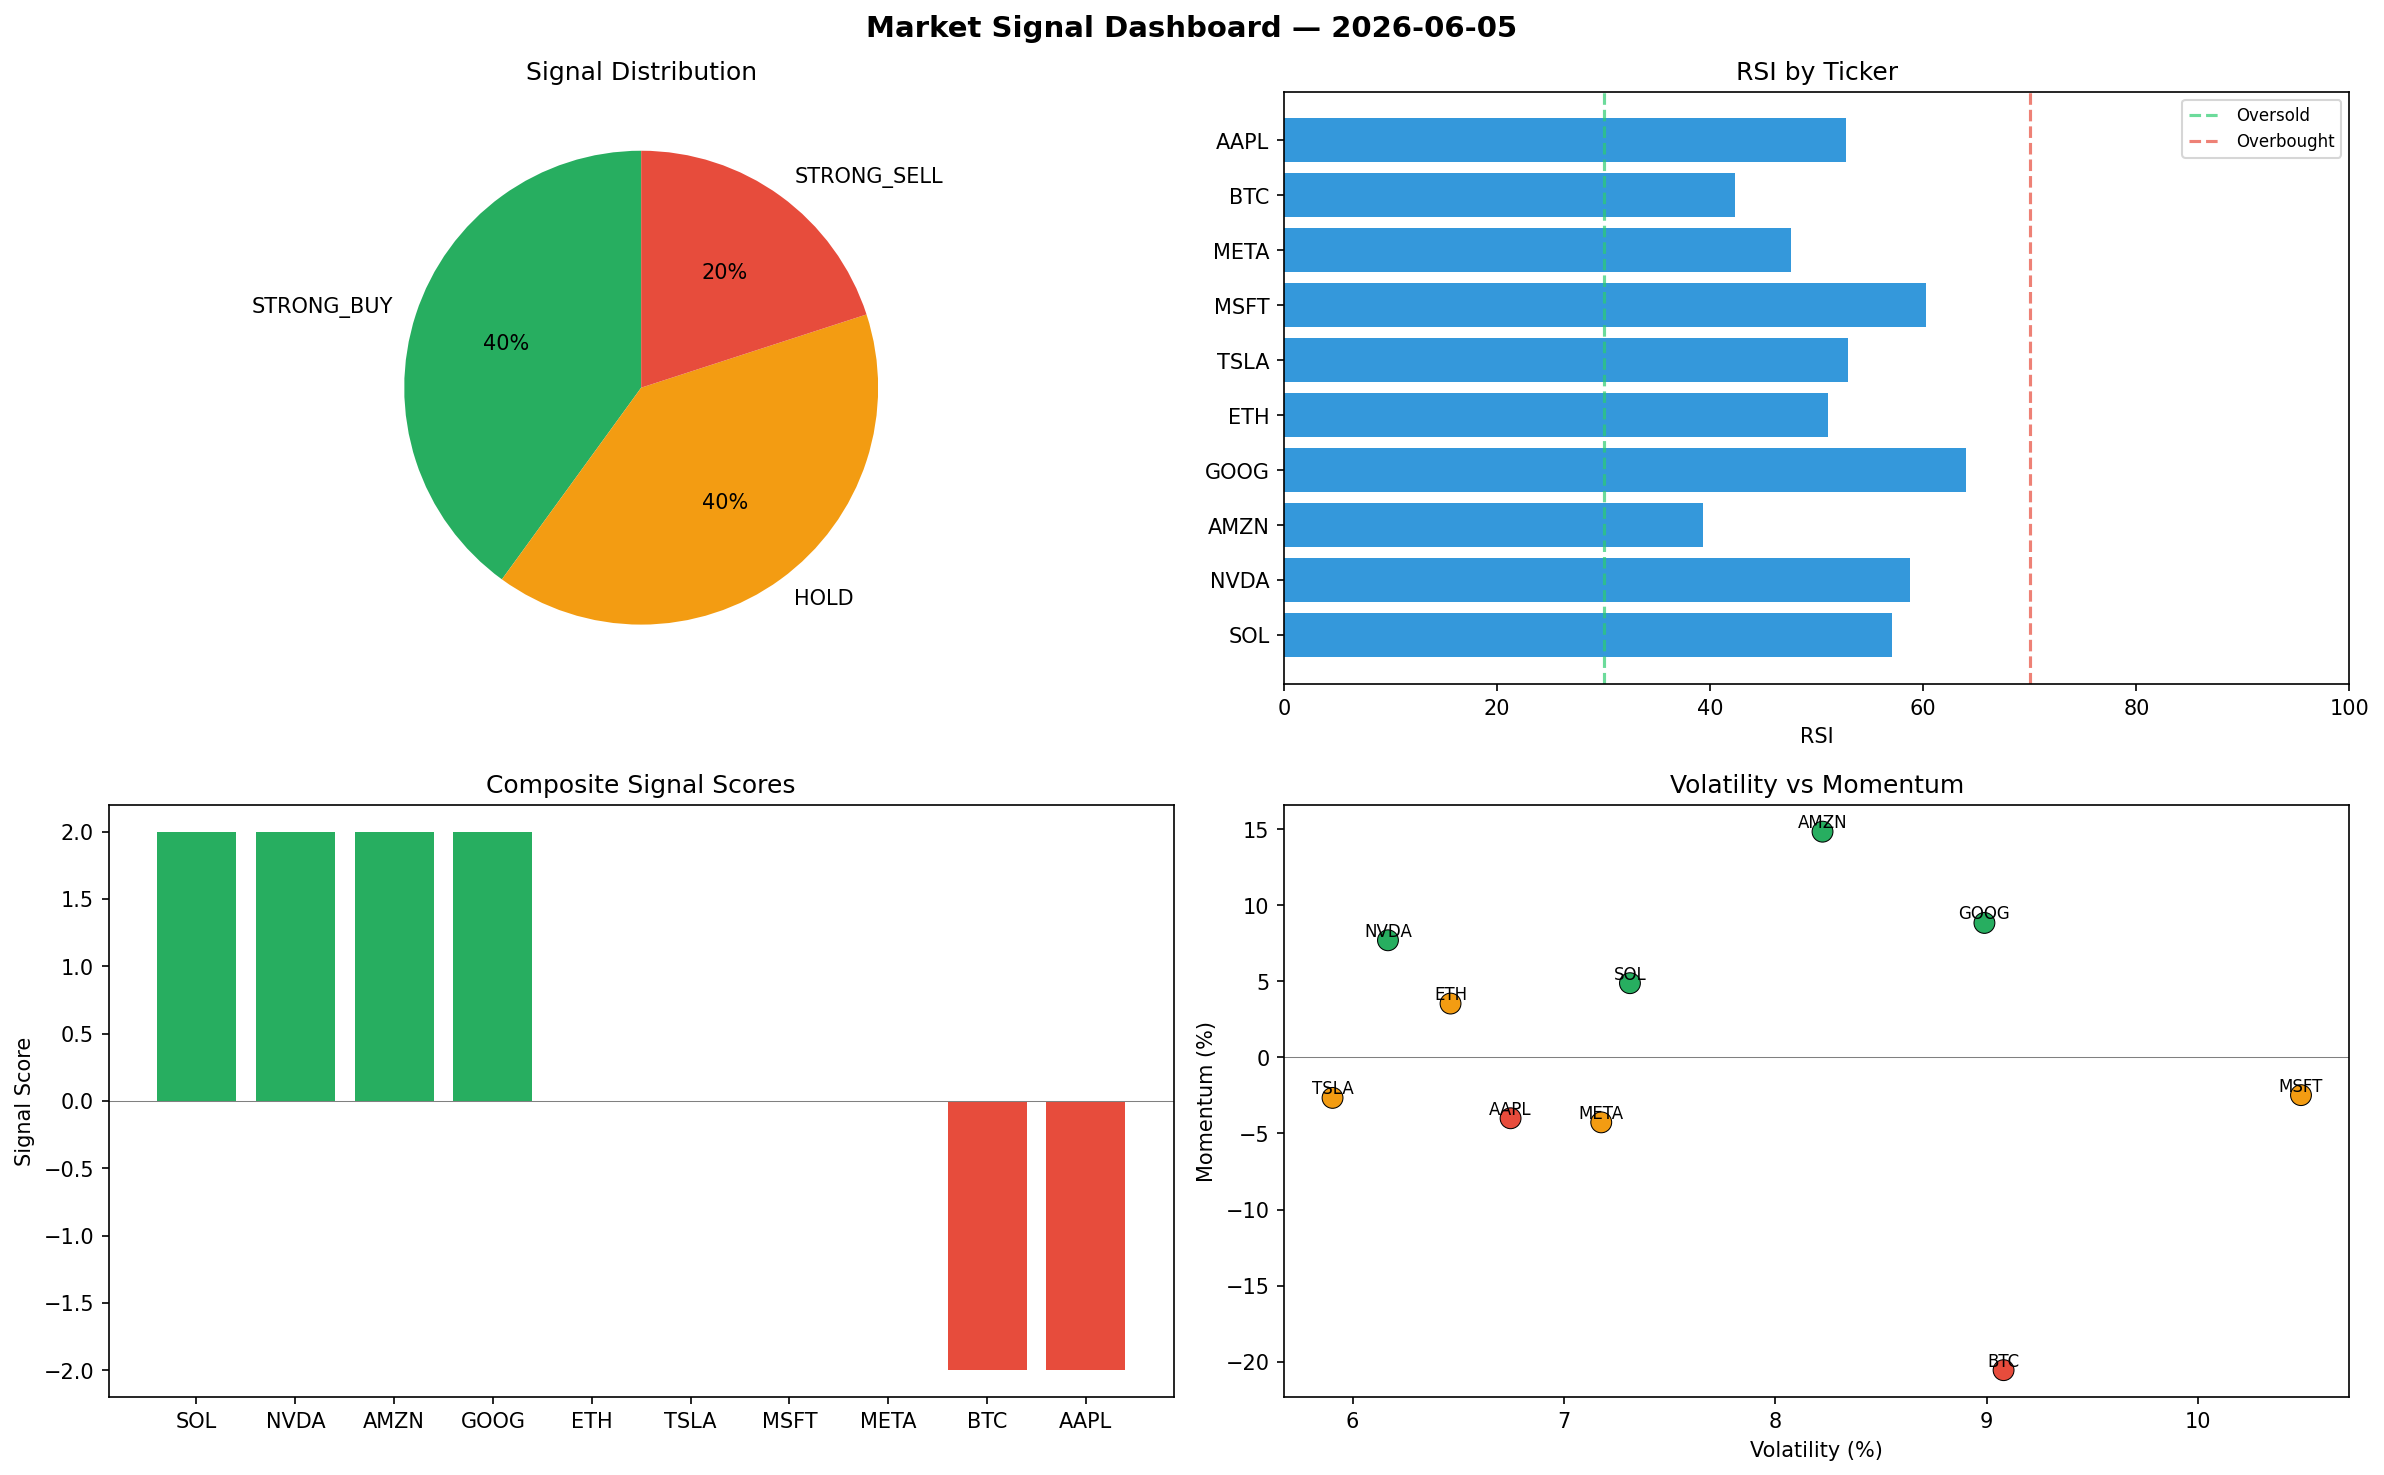
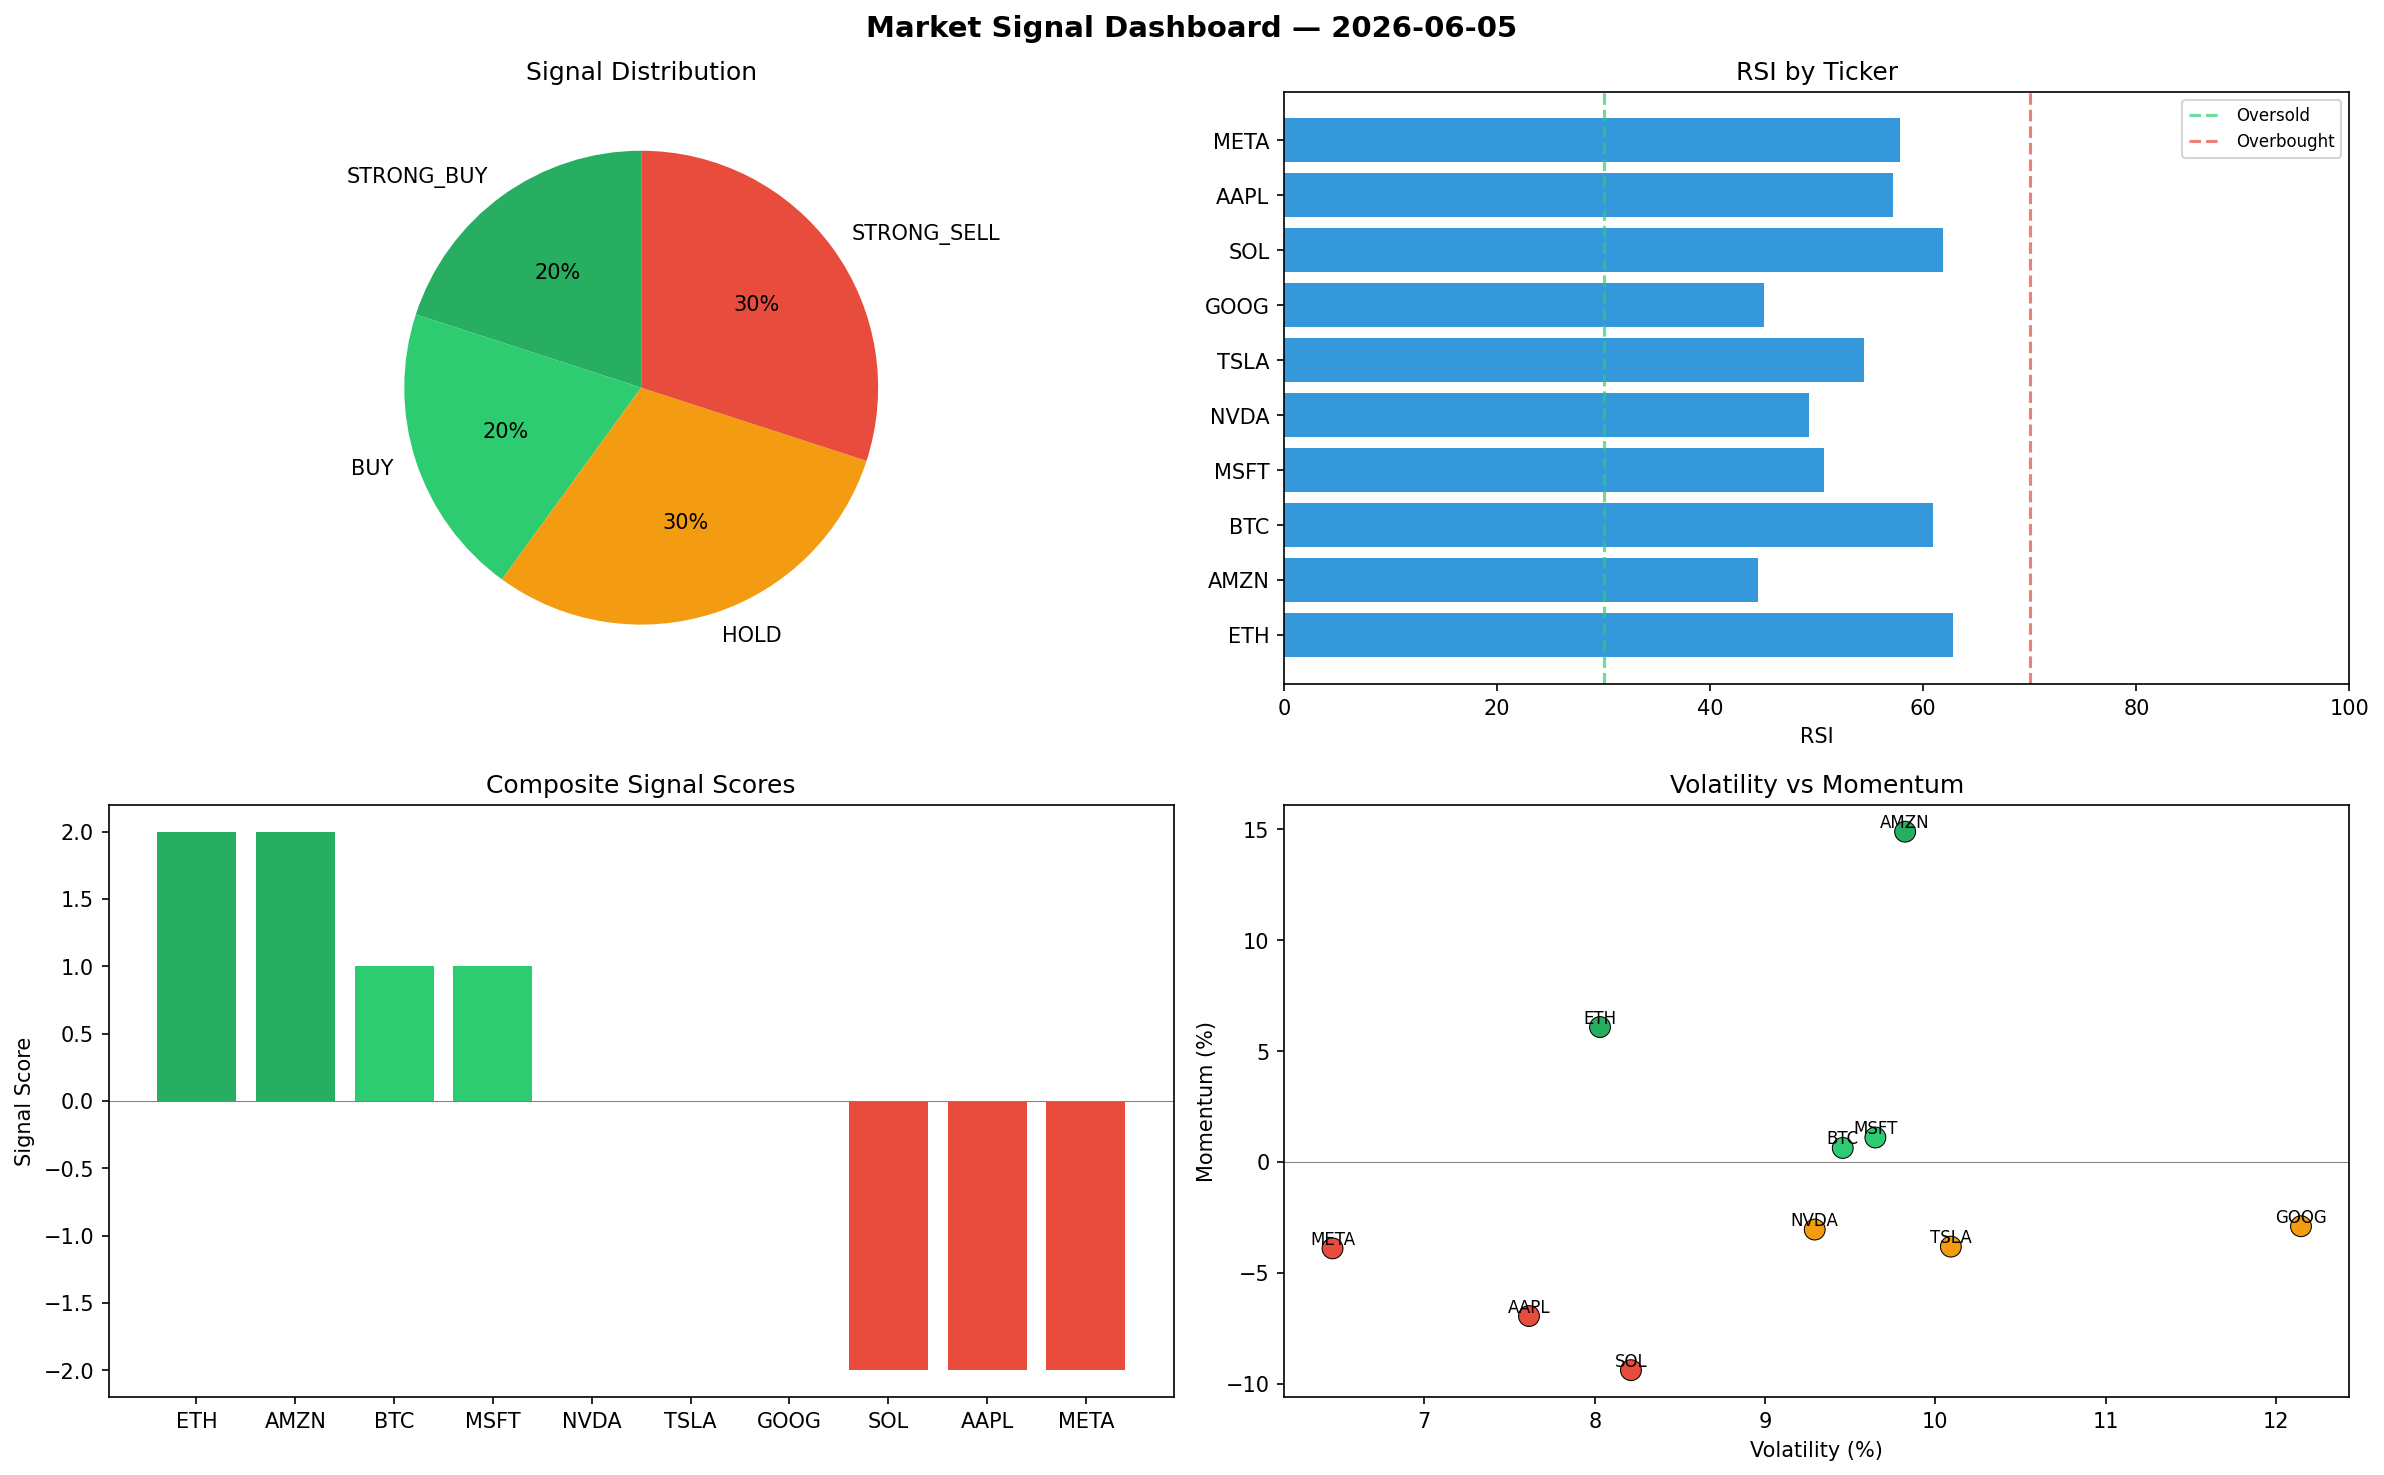
automated-bots: market signals 2026-06-05T21:52

diff --git a/logs/2026-06-05.md b/logs/2026-06-05.md
@@ -1,6 +1,6 @@
 # Market Signal Report — 2026-06-05
 
-**Run ID:** `4ff00c420c` | **Buy:** 4 | **Sell:** 2 | **Hold:** 4
+**Run ID:** `881b0f35eb` | **Buy:** 4 | **Sell:** 3 | **Hold:** 3
 
 ![Dashboard](2026-06-05_dashboard.png)
 
@@ -8,28 +8,28 @@
 
 | Ticker | Price | Signal | Score | RSI | Momentum | Confidence |
 |--------|-------|--------|-------|-----|----------|------------|
-| SOL | $124.79 | **STRONG_BUY** | 2 | 57.02 | 0.0488 | 0.5 |
-| NVDA | $5057.94 | **STRONG_BUY** | 2 | 58.72 | 0.077 | 0.5 |
-| AMZN | $4324.77 | **STRONG_BUY** | 2 | 39.29 | 0.1484 | 0.5 |
-| GOOG | $2316.06 | **STRONG_BUY** | 2 | 63.97 | 0.0884 | 0.5 |
-| ETH | $5205.01 | **HOLD** | 0 | 51.05 | 0.0354 | 0.0 |
-| TSLA | $3871.14 | **HOLD** | 0 | 52.97 | -0.0266 | 0.0 |
-| MSFT | $2515.78 | **HOLD** | 0 | 60.23 | -0.0248 | 0.0 |
-| META | $4035.29 | **HOLD** | 0 | 47.62 | -0.0427 | 0.0 |
-| BTC | $2357.27 | **STRONG_SELL** | -2 | 42.34 | -0.2056 | 0.5 |
-| AAPL | $4064.3 | **STRONG_SELL** | -2 | 52.75 | -0.04 | 0.5 |
+| ETH | $3472.67 | **STRONG_BUY** | 2 | 62.8 | 0.0608 | 0.5 |
+| AMZN | $4124.51 | **STRONG_BUY** | 2 | 44.53 | 0.1489 | 0.5 |
+| BTC | $534.64 | **BUY** | 1 | 60.89 | 0.0063 | 0.25 |
+| MSFT | $2320.7 | **BUY** | 1 | 50.66 | 0.011 | 0.25 |
+| NVDA | $4181.97 | **HOLD** | 0 | 49.26 | -0.0305 | 0.0 |
+| TSLA | $4358.77 | **HOLD** | 0 | 54.42 | -0.0382 | 0.0 |
+| GOOG | $4873.44 | **HOLD** | 0 | 45.05 | -0.029 | 0.0 |
+| SOL | $2760.73 | **STRONG_SELL** | -2 | 61.88 | -0.0939 | 0.5 |
+| AAPL | $1525.34 | **STRONG_SELL** | -2 | 57.17 | -0.0695 | 0.5 |
+| META | $2896.97 | **STRONG_SELL** | -2 | 57.83 | -0.039 | 0.5 |
 
 ## Delta vs Yesterday
 
 | Ticker | Today | Yesterday | Price Change | Signal Changed |
 |--------|-------|-----------|-------------|----------------|
-| SOL | STRONG_BUY | STRONG_SELL | 📉 -95.53% | ⚠ YES |
-| NVDA | STRONG_BUY | STRONG_BUY | 📈 153.09% | — |
-| AMZN | STRONG_BUY | SELL | 📈 28.75% | ⚠ YES |
-| GOOG | STRONG_BUY | SELL | 📈 52.93% | ⚠ YES |
-| ETH | HOLD | STRONG_SELL | 📈 9405.13% | ⚠ YES |
-| TSLA | HOLD | HOLD | 📈 65.72% | — |
-| MSFT | HOLD | STRONG_BUY | 📈 597.53% | ⚠ YES |
-| META | HOLD | STRONG_SELL | 📉 -15.99% | ⚠ YES |
-| BTC | STRONG_SELL | HOLD | 📉 -46.68% | ⚠ YES |
-| AAPL | STRONG_SELL | HOLD | 📈 18.44% | ⚠ YES |
+| ETH | STRONG_BUY | STRONG_SELL | 📈 6241.62% | ⚠ YES |
+| AMZN | STRONG_BUY | SELL | 📈 22.79% | ⚠ YES |
+| BTC | BUY | HOLD | 📉 -87.91% | ⚠ YES |
+| MSFT | BUY | STRONG_BUY | 📈 543.44% | ⚠ YES |
+| NVDA | HOLD | STRONG_BUY | 📈 109.26% | ⚠ YES |
+| TSLA | HOLD | HOLD | 📈 86.59% | — |
+| GOOG | HOLD | SELL | 📈 221.8% | ⚠ YES |
+| SOL | STRONG_SELL | STRONG_SELL | 📉 -1.16% | — |
+| AAPL | STRONG_SELL | HOLD | 📉 -55.55% | ⚠ YES |
+| META | STRONG_SELL | STRONG_SELL | 📉 -39.69% | — |
